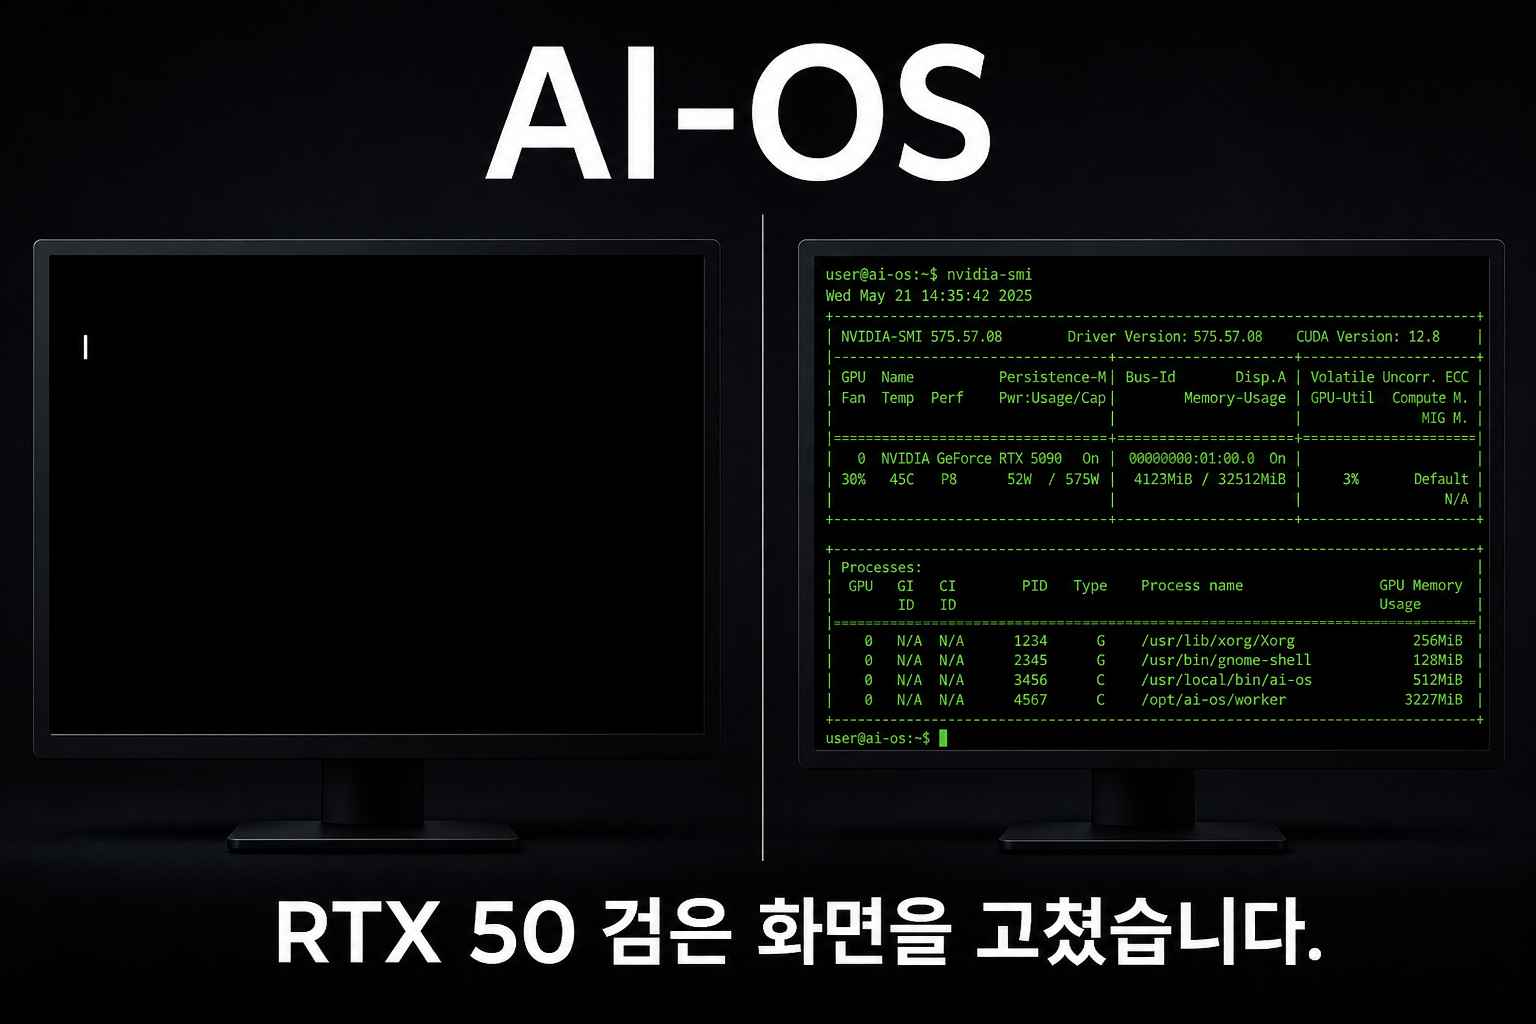
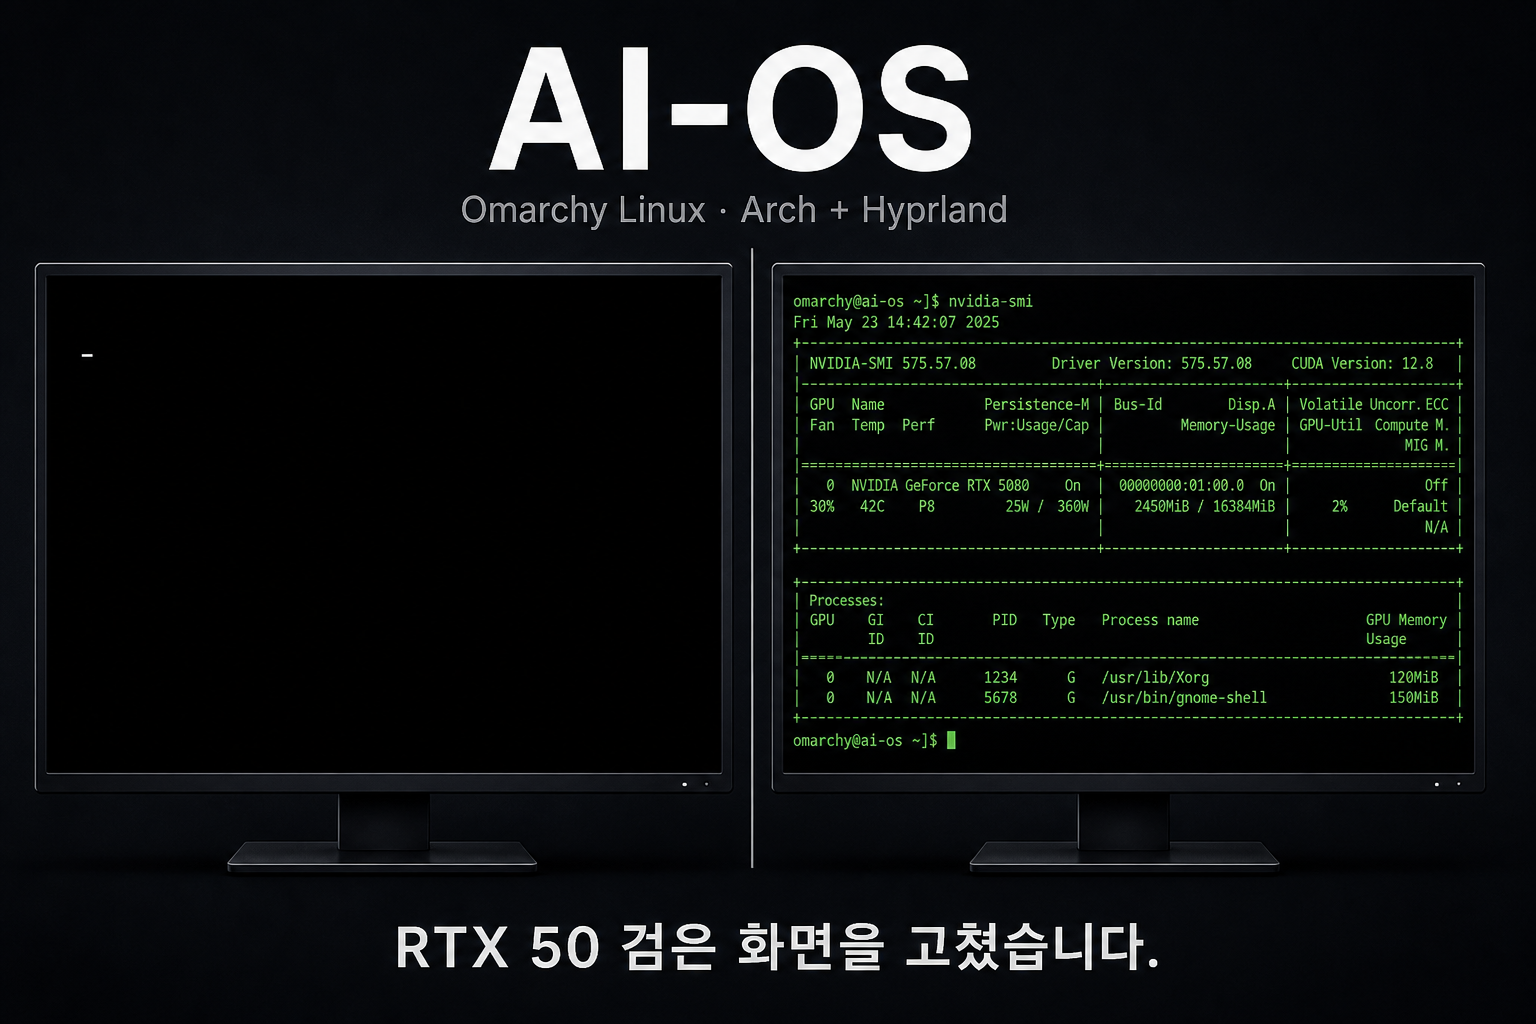
docs: Omarchy 기반임을 먼저 밝힌다
AI-OS 라는 낯선 이름만 크게 보여 무엇인지 알 수 없다는 의견을 반영했다.

  대문 이미지: 제목 아래에 Omarchy Linux · Arch + Hyprland 를 넣고
              터미널 프롬프트도 omarchy@ai-os 로
  머리말: 제목부터 Omarchy 라이브 USB 임을 밝히고, DHH 가 만든 배포판이라는
          설명과 우리가 더한 것/바꾸지 않은 것을 표로 갈랐다
  이 저장소는 그 위에 얹는 얇은 층이지 별개의 배포판이 아니다 를 명시

diff --git a/README.md b/README.md
@@ -1,17 +1,33 @@
-# AI-OS
+# AI-OS — GPU 가 그냥 잡히는 Omarchy 라이브 USB
 
 ![AI-OS](docs/img/hero.png)
 
-**USB 하나 꽂으면 GPU가 그냥 잡히는 리눅스.**
+**[Omarchy Linux](https://omarchy.org) 를 그대로 쓰되, GPU 와 한글만 손봤습니다.**
 
-[Omarchy](https://omarchy.org) (Hyprland 기반 Arch Linux) 위에 만든 라이브 ISO 입니다.
+Omarchy 는 DHH(Ruby on Rails 만든 사람)가 만든 Arch Linux + Hyprland 배포판입니다.
+좋은 물건인데, **NVIDIA GPU 가 꽂힌 기계에서 라이브로 띄우면 두 가지가 막힙니다** —
+RTX 50 시리즈에서 화면이 검게 나오고, 한글을 칠 수 없습니다.
+
+이 저장소는 그 둘을 고친 **라이브 ISO 빌드 스크립트**입니다.
 설치하지 않습니다. USB 로 부팅해서 쓰고, 전원을 끄면 흔적이 남지 않습니다.
+
+| | |
+|---|---|
+| **베이스** | Omarchy Linux (Arch + Hyprland) — 데스크톱·앱·설정은 그대로입니다 |
+| **우리가 더한 것** | GPU 자동 인식 · 한글 입력 · 부팅 메뉴 · 영구 저장 · 그 밖의 라이브 수리 |
+| **바꾸지 않은 것** | Omarchy 의 화면·키맵·테마·기본 앱. 상류가 갱신되면 그대로 따라갑니다 |
+
+> Omarchy 를 처음 보신다면 [omarchy.org](https://omarchy.org) 를 먼저 보십시오.
+> 이 저장소는 그 위에 얹는 얇은 층이지, 별개의 배포판이 아닙니다.
 
 ---
 
 ## 왜 만들었나
 
 남의 GPU 기계 앞에서 시간을 버리는 것이 싫어서입니다.
+
+Omarchy 자체는 훌륭합니다. 다만 그것은 **설치해서 쓰는 데스크톱**을 상정하고 만들어져,
+"USB 로 들고 다니며 남의 GPU 기계에 꽂는다" 는 쓰임새에서는 몇 가지가 걸립니다.
 
 RTX 5070 이 꽂혀 있는 컴퓨터라도, 리눅스 라이브로 부팅하면 **화면이 검게 나옵니다.**
 겨우 부팅해도 드라이버를 컴파일하느라 몇십 분을 기다립니다.
